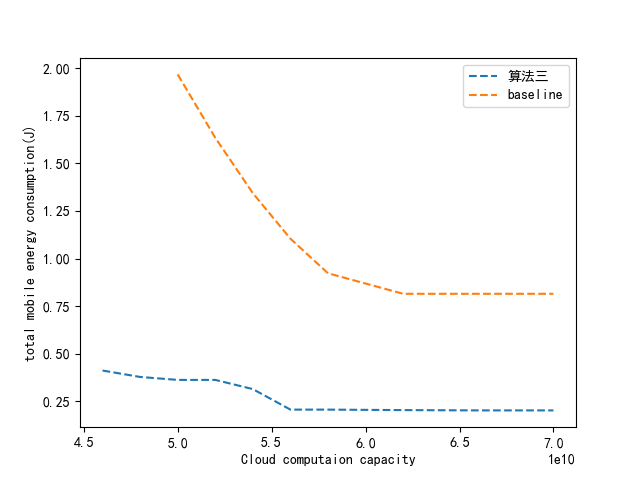
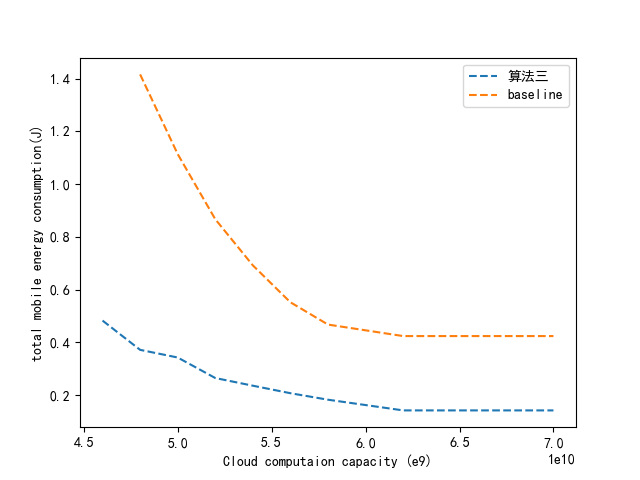
2.19 最终版本

diff --git a/UE.py b/UE.py
@@ -176,9 +176,9 @@ class UE_All:
     def get_T_max(self):
         res=0.0
         lamda=min(self.phyk)
-        if lamda==0:
-            print("lamda==0")
-            exit(0)
+        # if lamda==0:
+        #     print("lamda==0")
+        #     exit(0)
 
         for i in range(self.N):
             if self.phyk[i] >0:
@@ -191,7 +191,7 @@ class UE_All:
         return res
         pass
 if __name__ == '__main__':
-    np.random.seed(3)
+    np.random.seed(700)
     u1=UE_All()
     u1.generate_ue()
 
@@ -202,11 +202,11 @@ if __name__ == '__main__':
 
 
     #算法2
-    # u1.lk_star2,u1.tk_star2=Alorithm2(u1.lk_star, u1.Ck, define.F_MEC,u1)
-    # print("-----------------------------------\n",u1.lk_star2,u1.tk_star2)
-    # print("---------------\n 算法二执行完毕")
-    # s2=u1.energy_all_2()
-    # print("算法二耗能：",s2)
+    u1.lk_star2,u1.tk_star2=Alorithm2(u1.lk_star, u1.Ck, define.F_MEC,u1)
+    print("-----------------------------------\n",u1.lk_star2,u1.tk_star2)
+    print("---------------\n 算法二执行完毕")
+    s2=u1.energy_all_2()
+    print("算法二耗能：",s2)
 
     # # print("算法一耗能：",s)
     # print("equel耗能：",s_equal)
@@ -219,7 +219,7 @@ if __name__ == '__main__':
     # # print("-----------------------------------\n",tk,lk)
     s3=u1.energy_all_3()
     print("算法三耗能：",s3)
-    # print("算法二耗能：",s2)
+    print("算法二耗能：",s2)
     print("算法一耗能：", s)
 
     #cvxpy

diff --git a/plot.py b/plot.py
@@ -11,17 +11,35 @@ def plot_3(alor3,aver,F):
     plt.plot(F,alor3,linestyle='--',label='算法三')
     plt.plot(F,aver,linestyle='--',label='baseline')
     plt.legend(loc='best')
-    plt.xlabel('Cloud computaion capacity')
+    plt.xlabel('Cloud computaion capacity (e9)')
     plt.ylabel('total mobile energy consumption(J)')
     plt.show()
 
 def plot_2(res2,res3,aver,N):
     plt.rcParams['font.sans-serif'] = ['SimHei']
-    plt.plot(N,res2,linestyle='--',label='算法三')
-    plt.plot(N,res3,label='算法二')
-    plt.plot(N,aver,linestyle='--',label='baseline')
+    func1 = np.polyfit(N, res2, 3)
+    func2 = np.polyfit(N, res3, 3)
+    func3 = np.polyfit(N, aver, 3)
+
+    xn = np.linspace(N[0], N[-1], 30)
+
+    yn3 = np.poly1d(func3)
+
+
+    # plt.plot(N,aver,linestyle='--',label='baseline')
+    plt.plot(xn, yn3(xn),linestyle='--',label='baseline')
+
+    yn2 = np.poly1d(func2)
+    # plt.plot(N,res3,label='算法二')
+    plt.plot(xn, yn2(xn),label='算法二')
+
+
+    yn = np.poly1d(func1)
+    # plt.plot(N,res2,linestyle='--',label='算法三')
+    plt.plot(xn, yn(xn),linestyle='--',label='算法三')
+
     plt.legend(loc='best')
-    plt.xlabel('Time Slot duration(S)')
+    plt.xlabel('Numbers of users')
     plt.ylabel('total mobile energy consumption(J)')
     plt.show()
 

diff --git a/main2.py b/main2.py
@@ -59,14 +59,14 @@ def Picture2():
     res2=[]
     res3=[]
     aver=[]
-    define.F_MEC=65e9
-    define.T_slot=1.55
+    define.F_MEC=82e9  #66还行
+    define.T_slot=1.30
 
     for n in N:
         define.UE_n=n
-        u1 = UE_All()
-        u1.generate_ue()
-
+        # u1 = UE_All()
+        # u1.generate_ue()
+        u1.N=n
         # -----------算法一
         u1.testAlgor1()
         s = u1.energy_all()
@@ -84,7 +84,7 @@ def Picture2():
 
         # cvxpy
         tk = [define.T_slot / n] * n
-        s_equal = cvxSolve(u1.hk, u1.mk, u1.Rk, u1.Pk, u1.Ck, tk,define.F_MEC)
+        s_equal = cvxSolve(u1.hk[:n], u1.mk[:n], u1.Rk[:n], u1.Pk[:n], u1.Ck[:n], tk[:n],define.F_MEC)
 
         res2.append(s2)
         res3.append(s3)
@@ -112,7 +112,10 @@ T=np.array([1.15,1.25,1.35,1.45,1.55])+0.0
 
 
 # N=[10,15,20,25,30,35]
-N=np.linspace(5,30,6,dtype=int)
-np.random.seed(6)
+N=np.linspace(10,30,6,dtype=int)
+np.random.seed(5) #5可以
+define.UE_n=N[-1]
+u1 = UE_All()
+u1.generate_ue()
 Picture2()
 

diff --git a/define.py b/define.py
@@ -36,7 +36,7 @@ B = 10*MHZ  # MHz
 N0 = 1e-9  # 单位：W The variance of complex white Gaussian channel noise
 
 # MECS
-F_MEC =61e9 # cycles per slot.3 33970851290.0  57-69      69-28-2.3
+F_MEC =52e9 # cycles per slot.3 33970851290.0  57-69      69-28-2.3
 
 
 

diff --git a/Algorithm.py b/Algorithm.py
@@ -13,7 +13,7 @@ def compute_lk_tk(lamda,hk,N0,B,phyk,mk,Rk):
     lk=[0]*len(Rk)
     tk=[0]*len(Rk)
 
-    for i in range(len(Rk)):
+    for i in range(define.UE_n):
         if mk[i]==0:
             continue
         if phyk[i] < lamda:

diff --git a/main.py b/main.py
@@ -99,7 +99,7 @@ F=[56e9,58e9,60e9,62e9,64e9,66e9,68e9,72e9,76e9,80e9]
 F=np.array(F)-10e9  #原本18
 define.T_slot=1.05
 define.UE_n=25
-np.random.seed(6)
+np.random.seed(700)
 u1 = UE_All()
 u1.generate_ue()
 # -----------算法一
